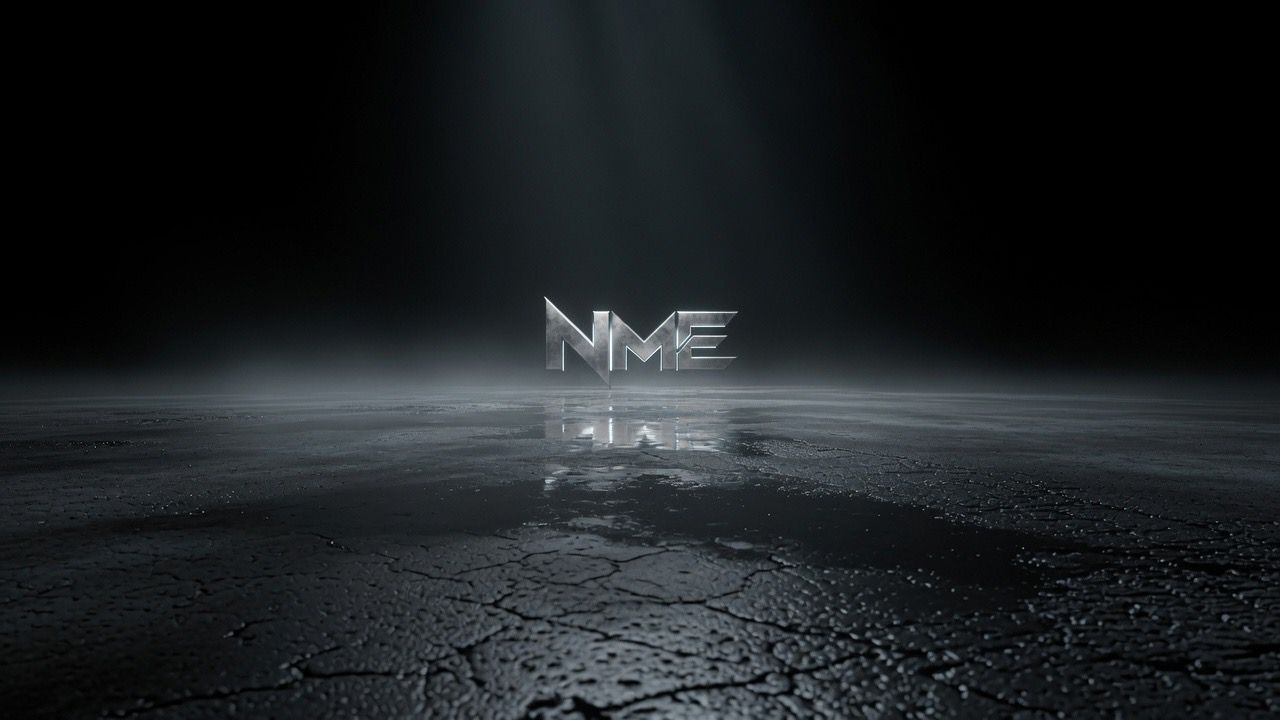
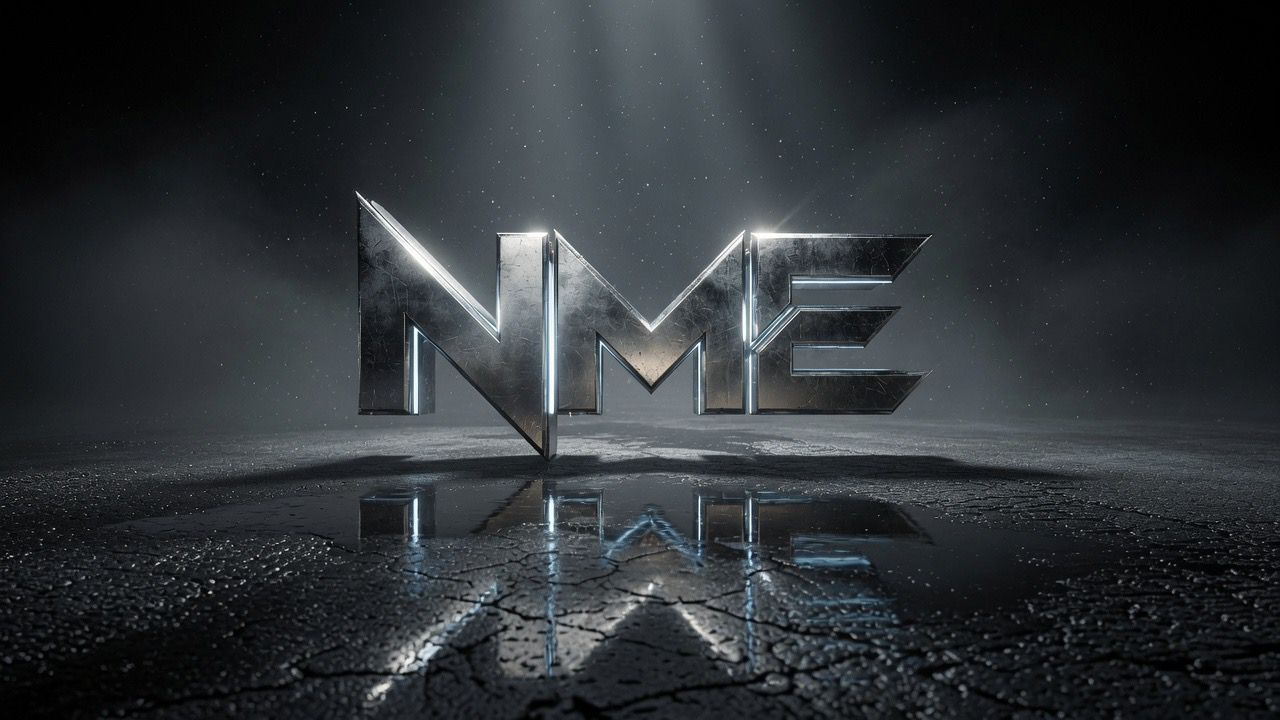
update coming soon v0.6

diff --git a/core/templates/pages/coming-soon.html b/core/templates/pages/coming-soon.html
@@ -11,7 +11,7 @@
 {% block body %}
     <section class="hero grid col-2">
         <div class="coming-soon">
-            <img src="/static/img/bg.jpeg" alt="Coming Soon">
+            <img src="/static/img/large-bg.jpg" alt="Coming Soon">
             <div class="hero-overlay">
                 <div class="rotating-word-wrapper ">
                     <span id="rotatingWordSpan" class="dynamic-word"></span>

diff --git a/core/static/css/style.css b/core/static/css/style.css
@@ -398,6 +398,7 @@ button:disabled {
         width:100%;
         height:100%; 
         object-fit: cover;
+        object-position: center center;
         z-index:0; 
         position:absolute;
         top:0; bottom:0; 
